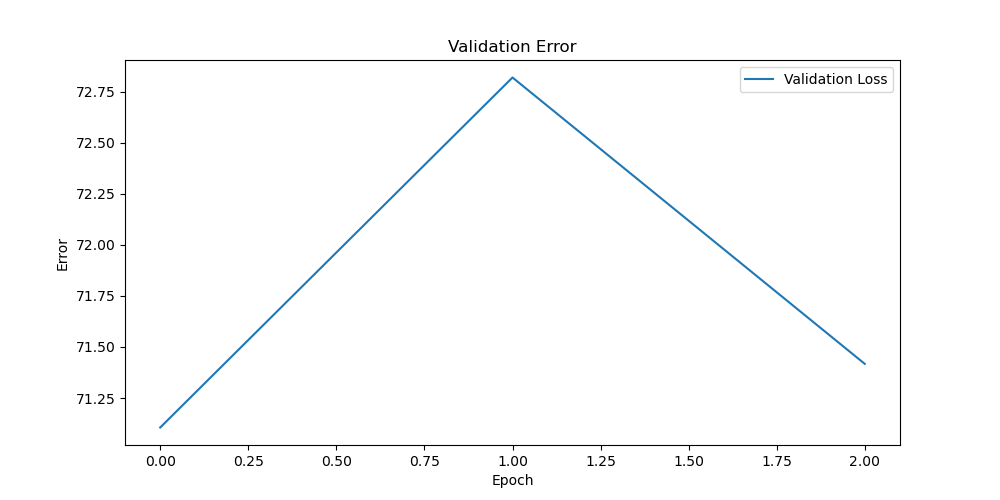
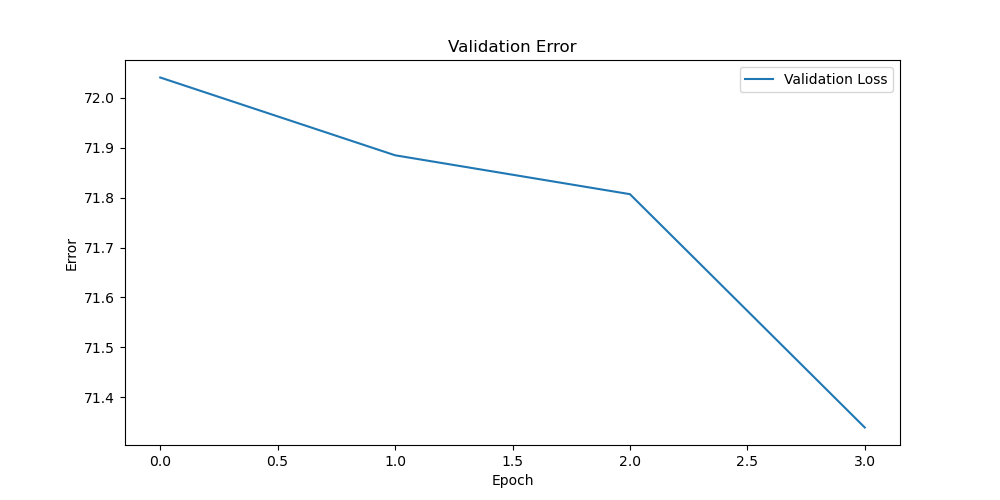
added k-fold and gridsearch to logistic & SVM

diff --git a/train_bert.py b/train_bert.py
@@ -5,13 +5,86 @@ import matplotlib.pyplot as plt
 from utils import TextDatasetBase, TextDatasetContext
 from datasets import load_dataset
 from torch.utils.data import DataLoader
-import sys
 from transformers import AutoModelForSequenceClassification, AutoTokenizer, Trainer, TrainingArguments
+# Additiona Libraries
+import sys
+from torch.optim.swa_utils import AveragedModel, SWALR
+from torch.optim.lr_scheduler import CyclicLR
 
-NUM_EPOCHS = 3
+NUM_EPOCHS = 4
 
 # Training Function for BERT Model
-def train_bert(device, model, train_loader, val_loader, num_epochs):
+def train_bert_cyclical(device, model, train_loader, val_loader, optimizer, num_epochs):
+    train_loss_values = []
+    train_error = []
+    val_loss_values = []
+    val_error = []
+    swa_model = AveragedModel(model)
+    swa_start = num_epochs // 2
+    scheduler = CyclicLR(optimizer, base_lr=1e-7, max_lr=5e-4, step_size_up=5, step_size_down=2, mode='exp_range', cycle_momentum=False)
+    for epoch in range(num_epochs):
+        train_correct = 0
+        train_total = 0
+        training_loss = 0.0
+        count = 0
+        # Training
+        model.train()
+        for input_ids, attention_mask, labels in train_loader:
+            input_ids = input_ids.to(device)
+            attention_mask = attention_mask.to(device)
+            labels = labels.to(device)
+            # Run the BERT Model
+            outputs = model(input_ids, attention_mask=attention_mask, labels=labels)
+            loss = outputs.loss
+            # Backpropogate & Optimize
+            optimizer.zero_grad()
+            loss.backward()
+            optimizer.step()
+            # Update learning rate
+            scheduler.step()
+            # Update SWA after swa_start epochs
+            if epoch >= swa_start:
+                swa_model.update_parameters(model)
+            # For logging purposes
+            training_loss += loss.item()
+            _, predicted = torch.max(outputs.logits, 1)
+            train_total += labels.size(0)
+            train_correct += (predicted == labels).sum().item()
+            count += 1
+            if count % 50 == 0:
+                print(f'Epoch {epoch+1} in progress, Training Loss: {training_loss/count}')
+        # Validation
+        model.eval()
+        val_correct = 0
+        val_total = 0
+        validation_loss = 0.0
+        if val_loader is not None:
+            with torch.no_grad():
+                for input_ids, attention_mask, labels in valid_loader:
+                    input_ids = input_ids.to(device)
+                    attention_mask = attention_mask.to(device)
+                    labels = labels.to(device)
+                    # Run the BERT Model
+                    outputs = model(input_ids, attention_mask=attention_mask, labels=labels)
+                    loss = outputs.loss
+                    _, predicted = torch.max(outputs.logits, 1)
+                    val_total += labels.size(0)
+                    val_correct += (predicted == labels).sum().item()
+                    validation_loss += loss.item()
+            val_loss_values.append(validation_loss / len(val_loader))
+            val_error.append(100-100*val_correct/val_total)
+        for op_params in optimizer.param_groups:
+            op_params['lr'] = op_params['lr'] * 0.35
+        # Log Model Performance  
+        train_loss_values.append(training_loss/len(train_loader))
+        train_error.append(100-100*train_correct/train_total)
+        print(f'Epoch {epoch+1}, Training Loss: {training_loss/len(train_loader)}, Validation Error: {val_error[-1]}, Training Error: {train_error[-1]}')
+        # Update batch normalization in SWA model
+        torch.optim.swa_utils.update_bn(train_loader, swa_model)
+    return train_error,train_loss_values, val_error, val_loss_values
+
+# Training Function for BERT Model
+def train_bert(device, model, train_loader, val_loader, optimizer, num_epochs):
     train_loss_values = []
     train_error = []
     val_loss_values = []
@@ -118,7 +191,7 @@ if __name__ == "__main__":
 
     # Train the model
     print("------------Training-----------")
-    train_error,train_loss_values, val_error, val_loss_values = train_bert(device, model, train_loader, valid_loader, NUM_EPOCHS)
+    train_error,train_loss_values, val_error, val_loss_values = train_bert(device, model, train_loader, valid_loader, optimizer, NUM_EPOCHS)
 
     # Plot the training error
     plt.figure(figsize=(10, 5))

diff --git a/train_baselines.py b/train_baselines.py
@@ -2,13 +2,14 @@ from sklearn.feature_extraction.text import TfidfVectorizer
 from sklearn.svm import SVC
 from sklearn.linear_model import LogisticRegression
 from sklearn.metrics import accuracy_score, classification_report
+from sklearn.model_selection import KFold, GridSearchCV
 from datasets import load_dataset
 import torch
 
 NUM_EPOCHS = 100
 
 # Training Function
-def train(device, model, train_loader, val_loader, num_epochs):
+def train(device, model, train_loader, val_loader, optimizer, criterion, num_epochs):
     train_loss_values = []
     train_error = []
     val_loss_values = []
@@ -97,3 +98,63 @@ if __name__ == "__main__":
     logistic_predictions = logistic_model.predict(X_val)
     logistic_accuracy = accuracy_score(y_val, logistic_predictions)
     print("Logistic Regression Validation Accuracy:", logistic_accuracy)
+
+    # Attempt 4-fold Validation
+
+    # Combine train and validation texts and labels
+    all_texts = dataset['train']['statement'] + dataset['validation']['statement']
+    all_labels = dataset['train']['label'] + dataset['validation']['label']
+
+    # Initialize the TF-IDF vectorizer
+    vectorizer = TfidfVectorizer()
+    all_texts_vectorized = vectorizer.fit_transform(all_texts)
+
+    #Define parameter grid for SVM
+    svm_param_grid = {
+        'C': [0.1, 1, 10],
+        'kernel': ['rbf', 'linear']
+    }
+
+    # Define parameter grid for Logistic Regression
+    logistic_param_grid = { 
+        'C': [0.1, 1, 10],
+        'solver': ['lbfgs', 'sag', 'saga']
+    }
+
+    # Grid search with cross-validation for SVM
+    svm_grid_search = GridSearchCV(SVC(), svm_param_grid, cv=4, scoring='accuracy')
+    svm_grid_search.fit(all_texts_vectorized, all_labels)
+    best_svm_params = svm_grid_search.best_params_
+
+    # Grid search with cross-validation for Logistic Regression
+    logistic_grid_search = GridSearchCV(LogisticRegression(max_iter=1000), logistic_param_grid, cv=4, scoring='accuracy')
+    logistic_grid_search.fit(all_texts_vectorized, all_labels)
+    best_logistic_params = logistic_grid_search.best_params_
+
+    # Initialize KFold
+    kf = KFold(n_splits=4, shuffle=True, random_state=42)
+
+    # Initialize performance tracking
+    svm_accuracies = []
+    logistic_accuracies = []
+
+    # Perform 4-fold cross-validation with best parameters
+    for train_index, val_index in kf.split(all_texts_vectorized):
+        X_train, X_val = all_texts_vectorized[train_index], all_texts_vectorized[val_index]
+        y_train, y_val = [all_labels[i] for i in train_index], [all_labels[i] for i in val_index]
+
+        # SVM Model with best parameters
+        svm_model = SVC(**best_svm_params)
+        svm_model.fit(X_train, y_train)
+        svm_predictions = svm_model.predict(X_val)
+        svm_accuracies.append(accuracy_score(y_val, svm_predictions))
+
+        # Logistic Regression Model with best parameters
+        logistic_model = LogisticRegression(max_iter=1000, **best_logistic_params)
+        logistic_model.fit(X_train, y_train)
+        logistic_predictions = logistic_model.predict(X_val)
+        logistic_accuracies.append(accuracy_score(y_val, logistic_predictions))
+
+    # Calculate and print average accuracies
+    print("Average SVM Validation Accuracy:", sum(svm_accuracies) / len(svm_accuracies))
+    print("Average Logistic Regression Validation Accuracy:", sum(logistic_accuracies) / len(logistic_accuracies))
